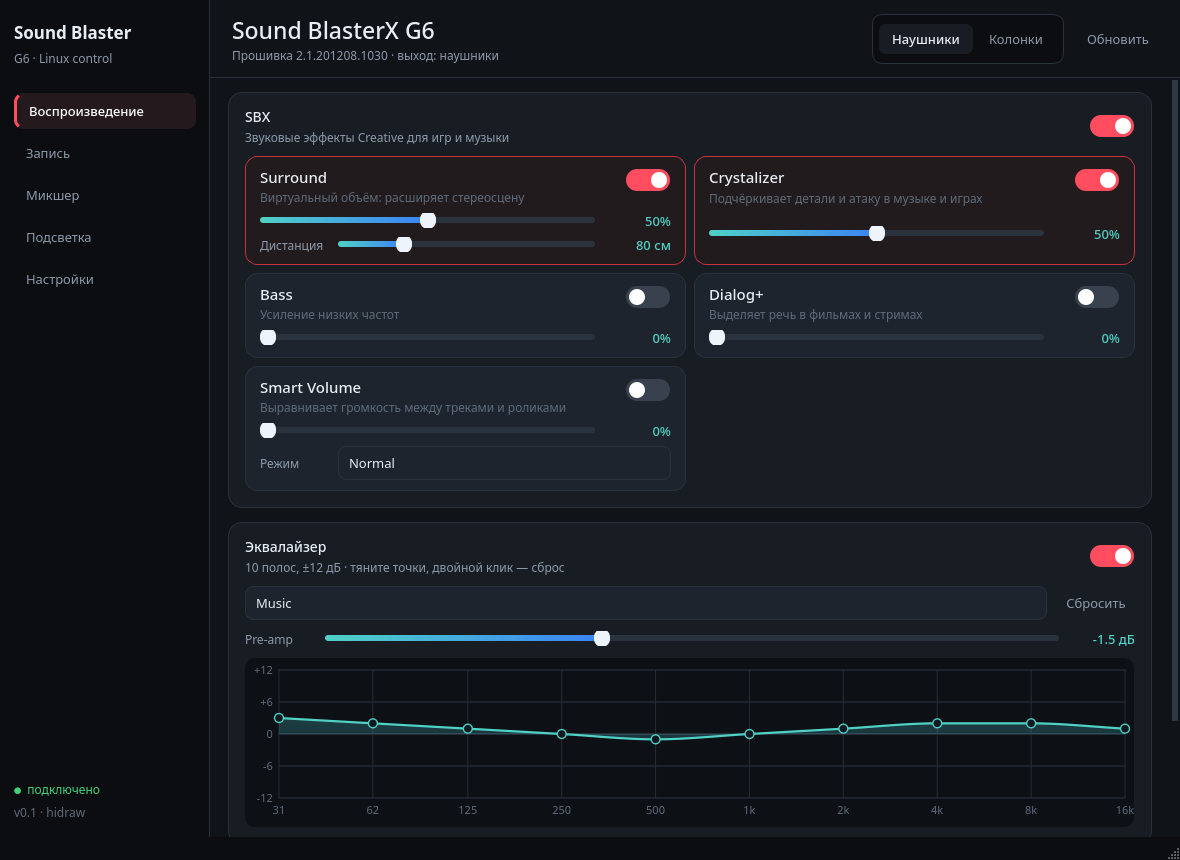
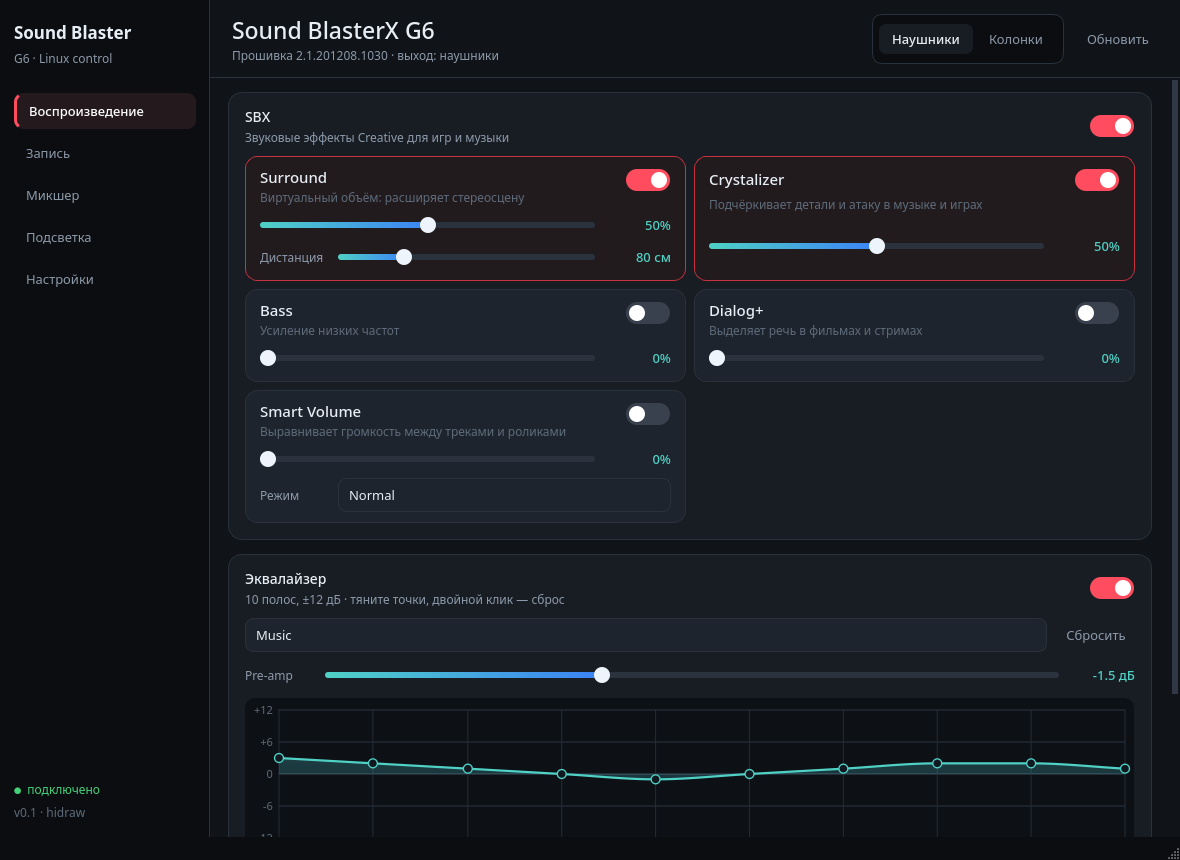
Lighting: instant preset swatches + separate custom picker; fix clipped slider handles

diff --git a/g6app/gui/pages.py b/g6app/gui/pages.py
@@ -28,6 +28,7 @@ from ..state import State
 from .widgets import (
     Card,
     ColorButton,
+    ColorSwatch,
     EQCurve,
     SegmentedControl,
     ToggleSwitch,
@@ -635,26 +636,34 @@ class LightingPage(QWidget):
         card.header.addWidget(self.toggle)
         self.toggle.toggled.connect(lambda value: self.win.set_lighting_enabled(value))
 
-        row = QHBoxLayout()
-        row.setSpacing(10)
-        row.addWidget(_mini_label("Цвет"))
+        custom_row = QHBoxLayout()
+        custom_row.setSpacing(10)
+        custom_row.addWidget(_mini_label("Свой цвет"))
         self.color = ColorButton()
-        self.color.colorChanged.connect(lambda rgb: self.win.set_lighting_color(tuple(int(c) for c in rgb)))
-        row.addWidget(self.color)
+        self.color.setToolTip("Открыть палитру и выбрать произвольный цвет")
+        self.color.colorChanged.connect(self._apply_custom)
+        custom_row.addWidget(self.color)
+        self.hex_label = QLabel("")
+        self.hex_label.setObjectName("muted")
+        self.hex_label.setMinimumWidth(80)
+        custom_row.addWidget(self.hex_label)
+        custom_row.addStretch(1)
+        card.add_layout(custom_row)
+
+        presets_row = QHBoxLayout()
+        presets_row.setSpacing(10)
+        presets_row.addWidget(_mini_label("Готовые"))
+        self.swatches: list[ColorSwatch] = []
         for rgb in (
             (255, 40, 40), (255, 140, 0), (255, 220, 0), (60, 220, 120),
             (0, 200, 255), (60, 110, 255), (170, 80, 255), (255, 255, 255),
         ):
-            swatch = ColorButton(rgb)
-            swatch.colorChanged.connect(
-                lambda value: (
-                    self.color.set_color(value),
-                    self.win.set_lighting_color(tuple(int(c) for c in value)),
-                )
-            )
-            row.addWidget(swatch)
-        row.addStretch(1)
-        card.add_layout(row)
+            swatch = ColorSwatch(rgb)
+            swatch.clicked.connect(lambda _=False, s=swatch: self._apply_swatch(s.color()))
+            self.swatches.append(swatch)
+            presets_row.addWidget(swatch)
+        presets_row.addStretch(1)
+        card.add_layout(presets_row)
 
         note = QLabel(
             "G6 поддерживает статический цвет и включение/выключение кольца. "
@@ -670,12 +679,28 @@ class LightingPage(QWidget):
         outer.setContentsMargins(0, 0, 0, 0)
         outer.addWidget(_scroll(body))
 
+    def _apply_swatch(self, color: tuple[int, int, int]) -> None:
+        self._refresh_color_widgets(color)
+        self.win.set_lighting_color(color)
+
+    def _apply_custom(self, color: tuple[int, int, int]) -> None:
+        color = tuple(int(c) & 0xFF for c in color)
+        self._refresh_color_widgets(color)
+        self.win.set_lighting_color(color)
+
+    def _refresh_color_widgets(self, color: tuple[int, int, int]) -> None:
+        color = tuple(int(c) & 0xFF for c in color)
+        self.color.set_color(color)
+        self.hex_label.setText(f"#{color[0]:02x}{color[1]:02x}{color[2]:02x}")
+        for swatch in self.swatches:
+            swatch.set_selected(swatch.color() == color)
+
     def sync(self, event: dict, state: State) -> None:
         if event.get("type") in ("lighting", "snapshot"):
             self.toggle.blockSignals(True)
             self.toggle.setChecked(state.lighting_enabled)
             self.toggle.blockSignals(False)
-            self.color.set_color(state.lighting_color)
+            self._refresh_color_widgets(state.lighting_color)
 
 
 class SettingsPage(QWidget):

diff --git a/g6app/gui/widgets.py b/g6app/gui/widgets.py
@@ -183,6 +183,7 @@ class ValueSlider(QWidget):
         layout.setContentsMargins(0, 0, 0, 0)
         layout.setSpacing(12)
         self.slider = QSlider(Qt.Orientation.Horizontal)
+        self.slider.setMinimumHeight(26)
         self.slider.setRange(0, round((maximum - minimum) * self._scale))
         self.slider.setPageStep(max(1, round(0.1 * (maximum - minimum) * self._scale)))
         layout.addWidget(self.slider, 1)
@@ -251,6 +252,53 @@ class SegmentedControl(QFrame):
             self.changed.emit(value)
 
 
+class ColorSwatch(QAbstractButton):
+    """A plain colour chip: clicking applies the colour immediately."""
+
+    def __init__(self, color: tuple[int, int, int], parent=None):
+        super().__init__(parent)
+        self._color = tuple(int(c) & 0xFF for c in color)
+        self._selected = False
+        self._hover = False
+        self.setFixedSize(30, 30)
+        self.setCursor(Qt.CursorShape.PointingHandCursor)
+        r, g, b = self._color
+        self.setToolTip(f"#{r:02x}{g:02x}{b:02x}")
+
+    def color(self) -> tuple[int, int, int]:
+        return self._color
+
+    def set_selected(self, selected: bool) -> None:
+        if selected != self._selected:
+            self._selected = selected
+            self.update()
+
+    def enterEvent(self, _event) -> None:
+        self._hover = True
+        self.update()
+
+    def leaveEvent(self, _event) -> None:
+        self._hover = False
+        self.update()
+
+    def paintEvent(self, _event) -> None:
+        painter = QPainter(self)
+        painter.setRenderHint(QPainter.RenderHint.Antialiasing)
+        rect = QRectF(6, 6, 18, 18)
+        if self._selected:
+            painter.setPen(QPen(QColor("#ffffff"), 2))
+            painter.setBrush(Qt.BrushStyle.NoBrush)
+            painter.drawEllipse(QRectF(3.5, 3.5, 23, 23))
+        elif self._hover:
+            painter.setPen(QPen(QColor("#ffffff66"), 1.5))
+            painter.setBrush(Qt.BrushStyle.NoBrush)
+            painter.drawEllipse(QRectF(4.25, 4.25, 21.5, 21.5))
+        painter.setPen(QPen(QColor("#00000040"), 1))
+        painter.setBrush(QColor(*self._color))
+        painter.drawEllipse(rect)
+        painter.end()
+
+
 class ColorButton(QPushButton):
     colorChanged = Signal(tuple)
 
@@ -264,7 +312,7 @@ class ColorButton(QPushButton):
 
     def _refresh(self) -> None:
         r, g, b = self._color
-        border = "#ffffff" if (r * 299 + g * 587 + b * 114) / 1000 < 40 else "#00000033"
+        border = "#ffffff" if (r * 299 + g * 587 + b * 114) / 1000 < 40 else "#26000000"
         self.setStyleSheet(
             f"QPushButton {{ background: rgb({r},{g},{b}); border: 2px solid {border};"
             " border-radius: 17px; }"

diff --git a/g6app/gui/theme.py b/g6app/gui/theme.py
@@ -225,6 +225,9 @@ QComboBox QAbstractItemView {{
 }}
 
 /* --------------------------------------------------------------- sliders -- */
+QSlider:horizontal {{
+    min-height: 26px;
+}}
 QSlider::groove:horizontal {{
     height: 6px;
     background: #2a323d;
@@ -239,7 +242,7 @@ QSlider::handle:horizontal {{
     border: none;
     width: 16px;
     height: 16px;
-    margin: -6px 0;
+    margin: -5px 0;
     border-radius: 8px;
 }}
 QSlider::handle:horizontal:hover {{
